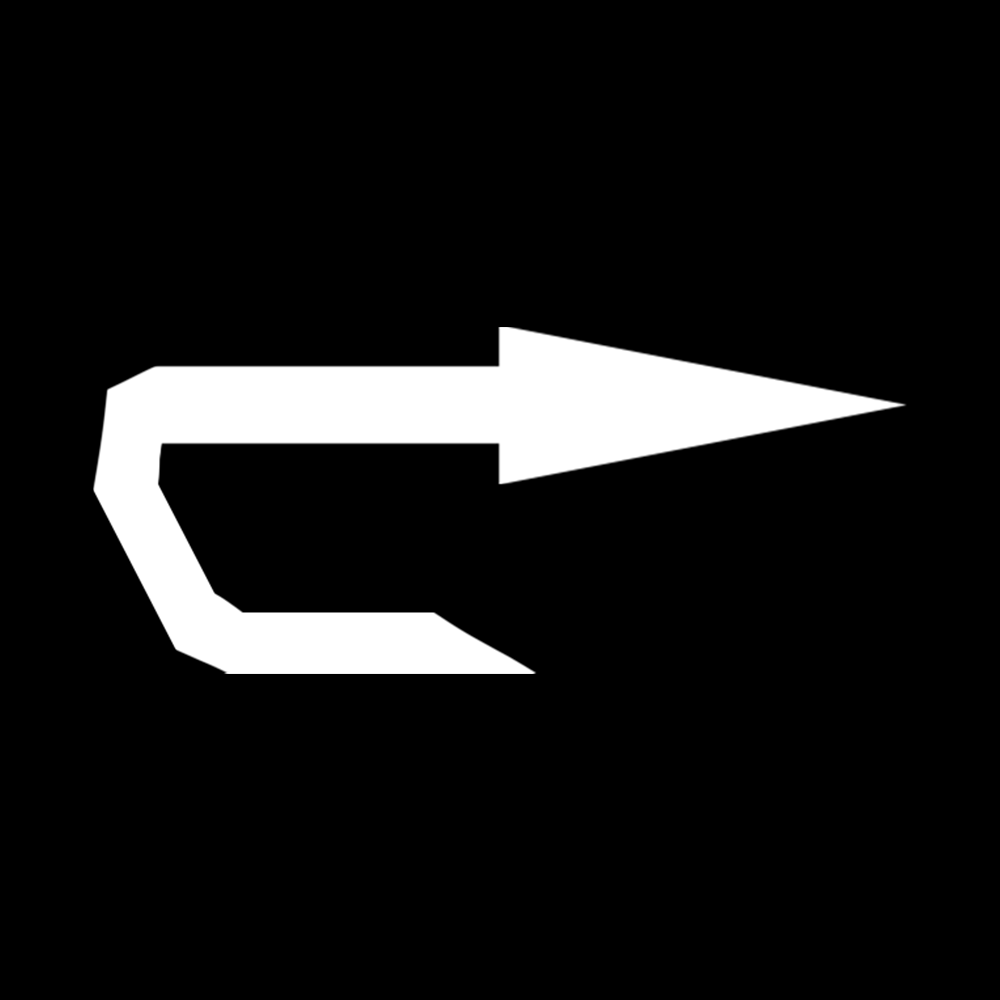
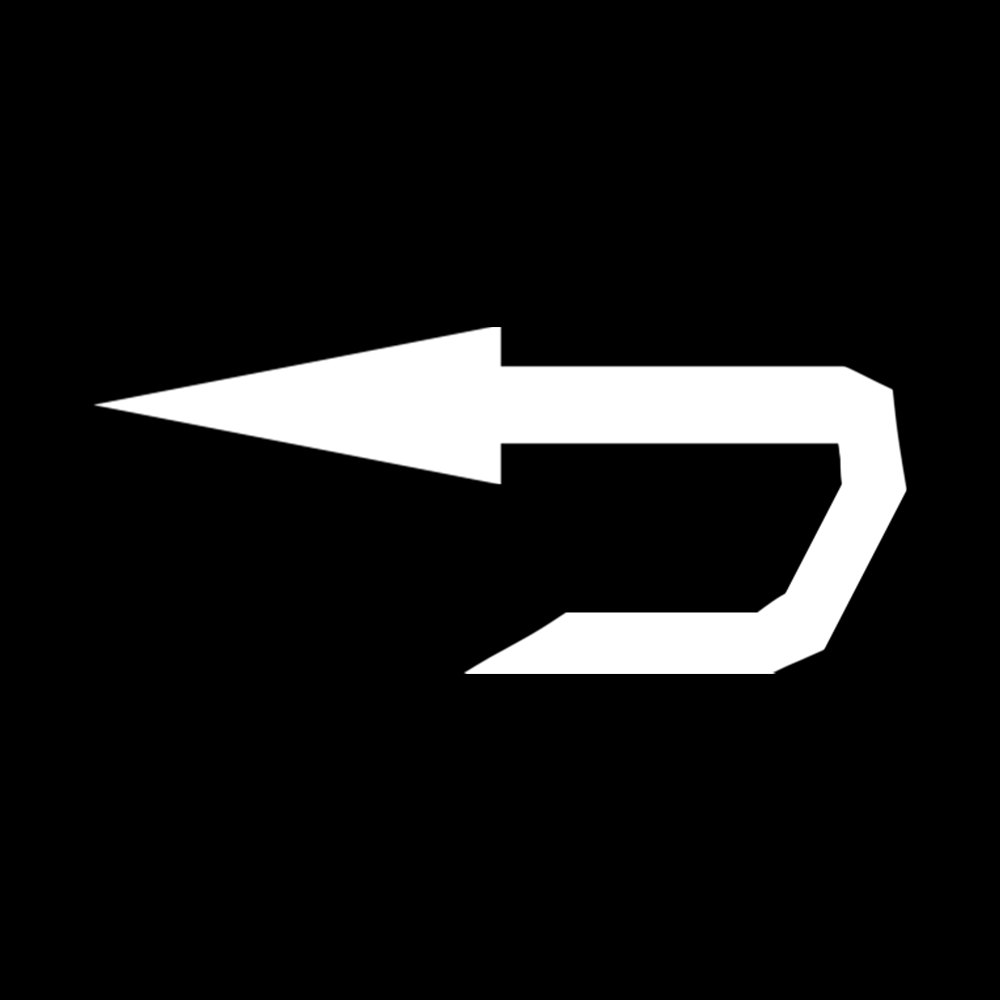
Galaxy Controller & Back Button
Controller for galaxy scene and the back button sprite are now ready.

Changed region(s): [[0.093, 0.31, 0.93, 0.682]]

diff --git a/P7 - SSS - HDRP/Assets/Scripts/GalaxyController.cs b/P7 - SSS - HDRP/Assets/Scripts/GalaxyController.cs
@@ -1,0 +1,56 @@
+using System.Collections;
+using System.Collections.Generic;
+using UnityEngine;
+using UnityEngine.UI;
+using UnityEngine.SceneManagement;
+
+public class GalaxyController : MonoBehaviour
+{
+    public Vector3 position1;
+    public Vector3 position2;
+    public Button back;
+    public float upScale;
+
+    // Start is called before the first frame update
+    void Start()
+    {
+        back.onClick.AddListener(Back);
+    }
+
+    // Update is called once per frame
+    void Update()
+    {
+        if (Input.GetButtonDown("Fire1"))
+        {
+            if(transform.position == position1)
+            {
+                transform.position = position2;
+            }
+            else
+            {
+                transform.position = position1;
+            }
+        }
+
+        if (Input.GetButtonDown("Horizontal"))
+        {
+            if (Input.GetAxis("Horizontal") > 0)
+            {
+                Time.timeScale *= upScale;
+            }
+            else if (Input.GetAxis("Horizontal") < 0)
+            {
+                Time.timeScale /= upScale;
+            }
+        }
+        if (Input.GetButtonDown("Jump"))
+        {
+            Time.timeScale = 1;
+        }
+    }
+
+    private void Back()
+    {
+        SceneManager.LoadScene(0);
+    }
+}
